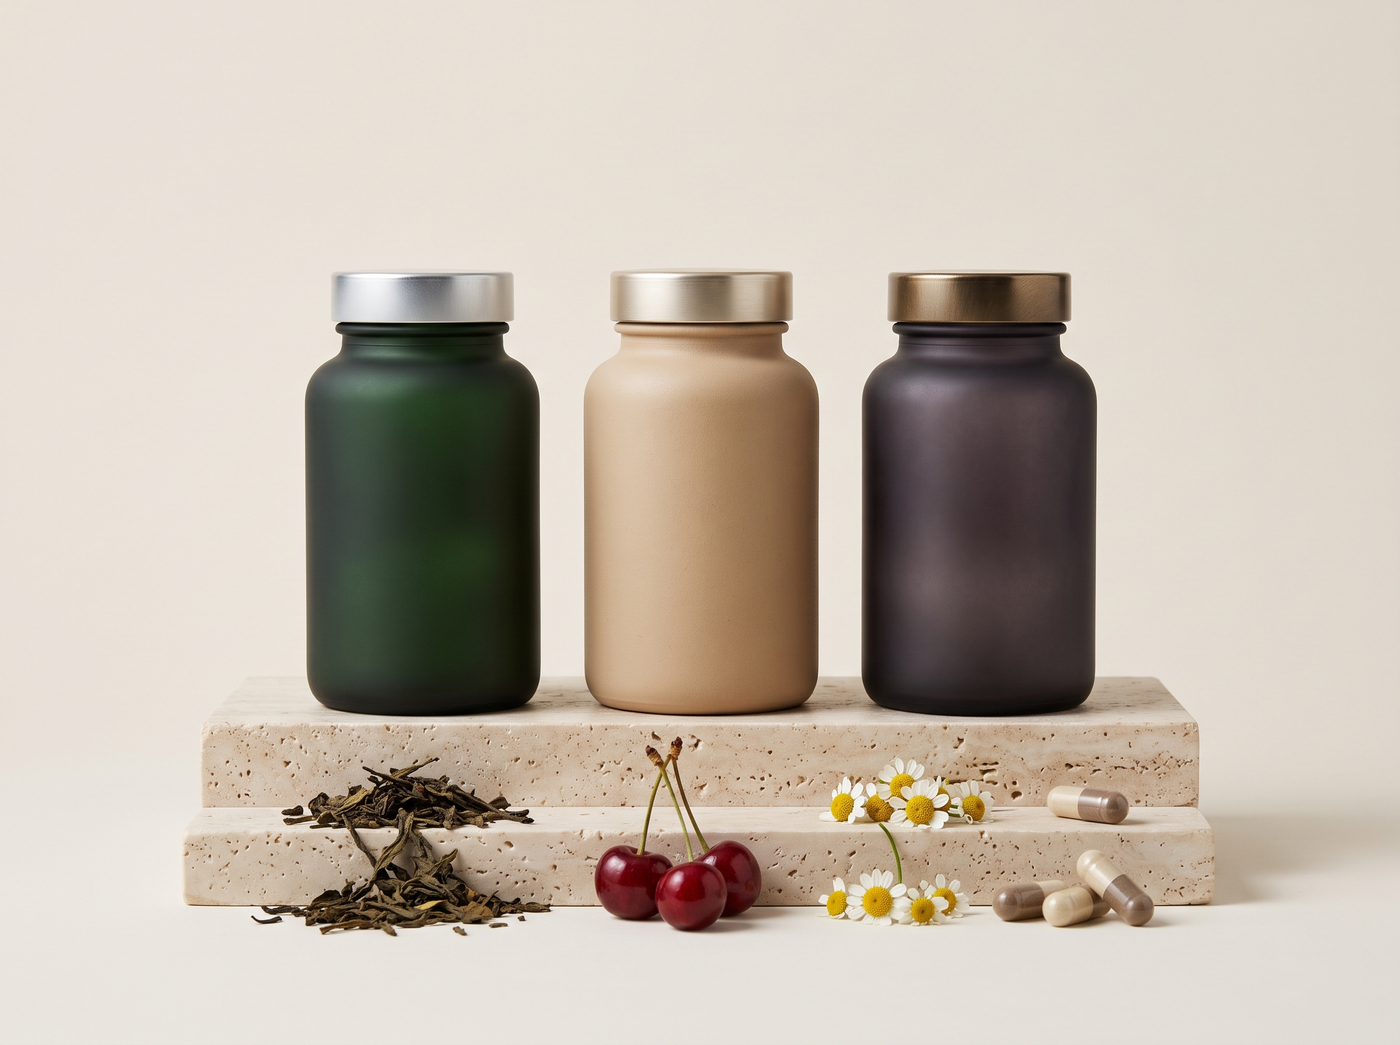
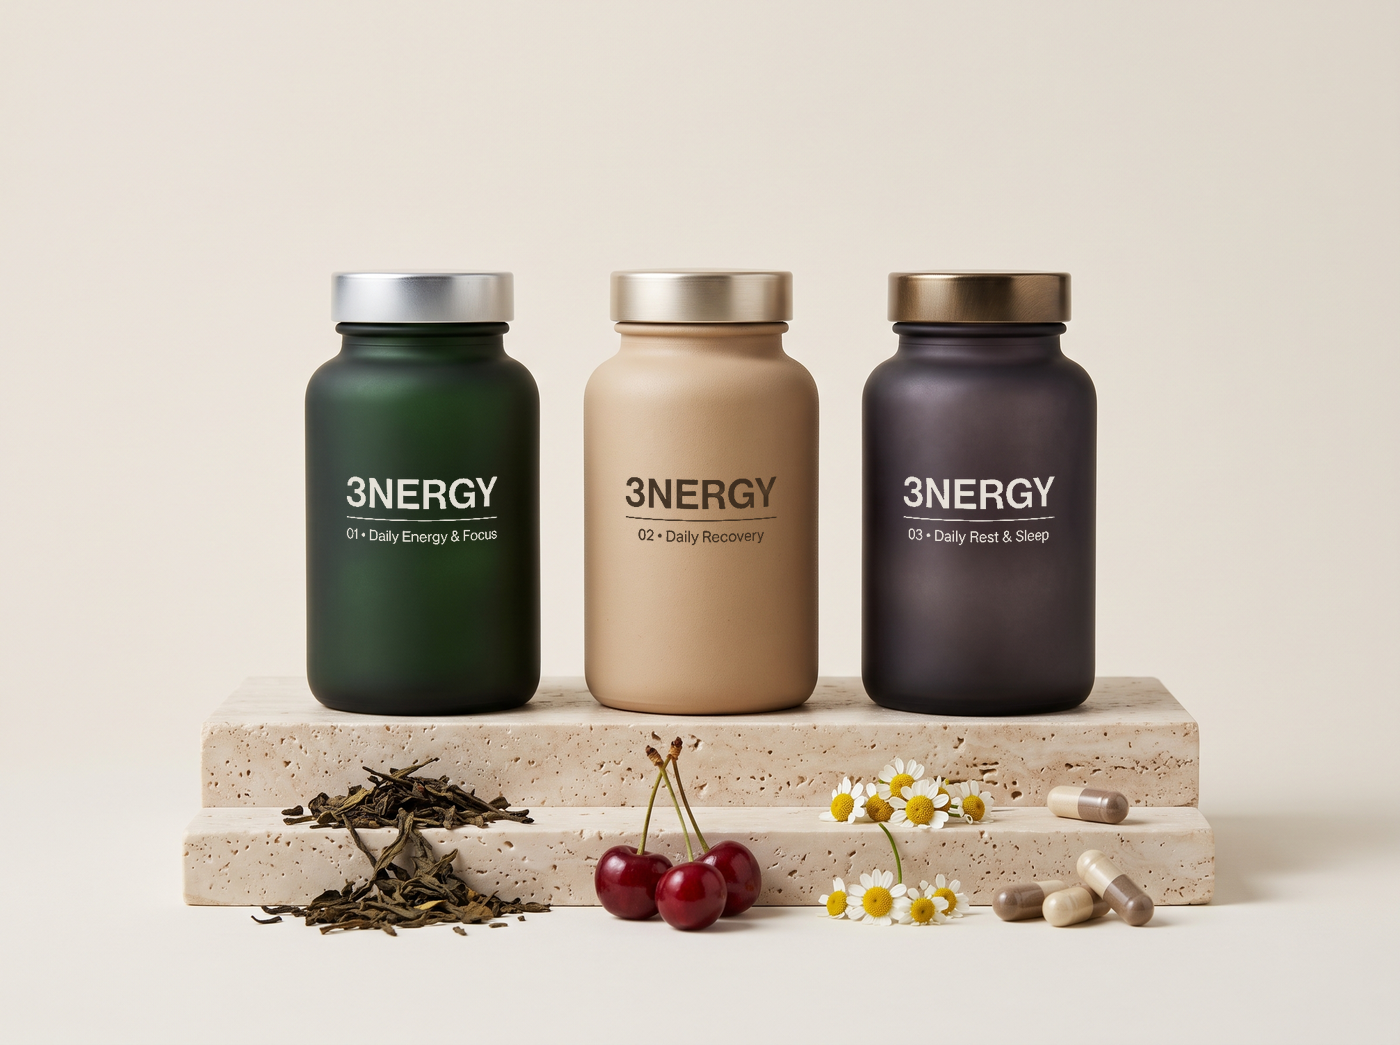
feat(assets): apply official silk-screened labels to Daily Trio bundle image

Changed region(s): [[0.645, 0.4593, 0.7679, 0.5206], [0.2457, 0.4593, 0.3686, 0.5206], [0.43, 0.4593, 0.5529, 0.5206]]

diff --git a/src/app/shop/page.tsx b/src/app/shop/page.tsx
@@ -81,7 +81,7 @@ export function ShopPage() {
             <div className="lg:col-span-6 flex justify-center py-2">
               <div className="relative w-full max-w-lg aspect-[4/3] rounded-3xl overflow-hidden shadow-lg border border-black/5 bg-[#f4f6f4] group">
                 <Image
-                  src="/images/trio_bundle_hero.png"
+                  src="/images/3nergy-daily-trio-bundle.png"
                   alt="The Complete 3NERGY Daily Trio supplement line on travertine plinth"
                   fill
                   sizes="(max-width: 1024px) 100vw, 50vw"

diff --git a/src/data/products.ts b/src/data/products.ts
@@ -128,5 +128,5 @@ export const TRI_SYSTEM_BUNDLE = {
   savingsPercent: 17,
   rating: 5.0,
   reviewCount: 4890,
-  image: "/images/trio_bundle_hero.png",
+  image: "/images/3nergy-daily-trio-bundle.png",
 };
